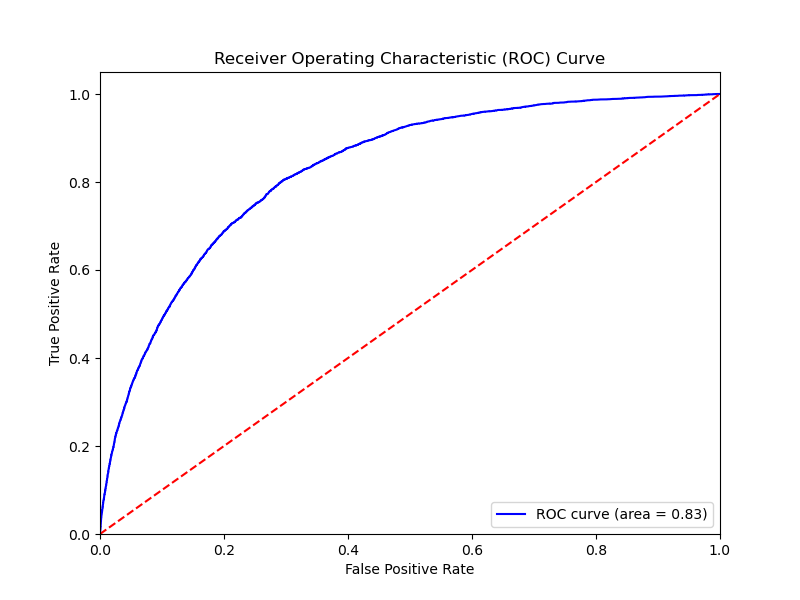
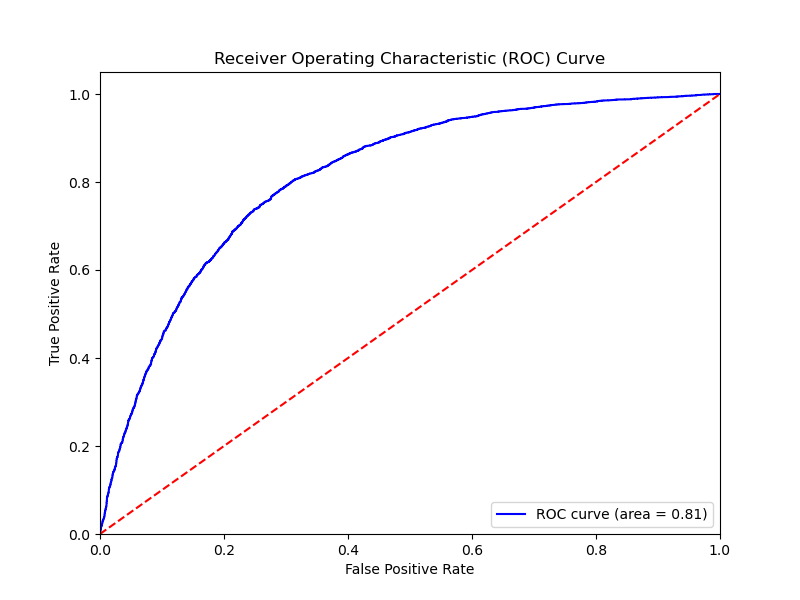
RF: Change Random to GridSearchCV, implemented same subset as in SVM

diff --git a/RF_Ilario/code/14-project.py b/RF_Ilario/code/14-project.py
@@ -1,6 +1,6 @@
 import pandas as pd
 import numpy as np
-from sklearn.model_selection import train_test_split, RandomizedSearchCV
+from sklearn.model_selection import train_test_split, GridSearchCV
 from sklearn.ensemble import RandomForestClassifier
 from sklearn.metrics import confusion_matrix, classification_report, accuracy_score, roc_curve, roc_auc_score
 from sklearn.preprocessing import StandardScaler
@@ -20,19 +20,29 @@ data_encoded = pd.get_dummies(data, drop_first=True)
 X = data_encoded.drop('HeartDisease_Yes', axis=1)  
 y = data_encoded['HeartDisease_Yes']
 
-# Splitting the dataset into training and testing sets
+# Splitting the dataset into training and testing sets and creating balanced subsets of the data
 X_train, X_test, y_train, y_test = train_test_split(X, y, test_size=0.2, random_state=42)
+
+positive_patients = list(np.random.choice(X_train[y_train == 1].index, 1000))
+negative_patients = list(np.random.choice(X_train[y_train == 0].index, 1000))
+X_train_sub = X_train.loc[positive_patients+negative_patients]
+y_train_sub = y_train.loc[positive_patients+negative_patients]
+
+positive_patients_test = list(X_test[y_test == 1].index)
+negative_patients_test = list(np.random.choice(X_test[y_test == 0].index, len(positive_patients_test)))
+X_test_sub = X_test.loc[positive_patients_test+negative_patients_test]
+y_test_sub = y_test.loc[positive_patients_test+negative_patients_test]
 
 # Standardizing numeric features (Random Forest does not require feature scaling but it won't hurt)
 numeric_features = X.select_dtypes(include=['float64', 'int']).columns.tolist()
 scaler = StandardScaler()
-X_train[numeric_features] = scaler.fit_transform(X_train[numeric_features])
-X_test[numeric_features] = scaler.transform(X_test[numeric_features])
+X_train_sub[numeric_features] = scaler.fit_transform(X_train_sub[numeric_features])
+X_test_sub[numeric_features] = scaler.transform(X_test_sub[numeric_features])
 
-# Hyperparameter tuning using RandomizedSearchCV
-param_distributions = {
+# Hyperparameter tuning using GridSearchCV
+param_grid = {
     'n_estimators': [50, 100],  # Reduced range
-    'max_features': ['auto', 'sqrt'],
+    'max_features': [None, 'sqrt'],
     'max_depth': [None, 10, 20],
     'min_samples_split': [2, 5],
     'min_samples_leaf': [1, 2],
@@ -42,31 +52,29 @@ param_distributions = {
 rf = RandomForestClassifier(random_state=42)
 
 # Use the threading backend
-random_search = RandomizedSearchCV(estimator=rf, param_distributions=param_distributions, 
-                                   n_iter=50, cv=2, n_jobs=-1, verbose=2, random_state=42, 
-                                   scoring='accuracy')
+grid_search = GridSearchCV(estimator=rf, param_grid=param_grid, cv=5,scoring='accuracy')
 
 with parallel_backend('threading'):
-    random_search.fit(X_train, y_train)
+    grid_search.fit(X_train_sub, y_train_sub)
 
-best_rf = random_search.best_estimator_
+best_rf = grid_search.best_estimator_
 
 # Making predictions
-y_pred = best_rf.predict(X_test)
-y_pred_prob = best_rf.predict_proba(X_test)[:, 1]  # Probabilities for the positive class
+y_pred = best_rf.predict(X_test_sub)
+y_pred_prob = best_rf.predict_proba(X_test_sub)[:, 1]  # Probabilities for the positive class
 
 # Evaluating the model
-accuracy = accuracy_score(y_test, y_pred)
-conf_matrix = confusion_matrix(y_test, y_pred)
-report = classification_report(y_test, y_pred)
-print("Best Parameters:", random_search.best_params_)
+accuracy = accuracy_score(y_test_sub, y_pred)
+conf_matrix = confusion_matrix(y_test_sub, y_pred)
+report = classification_report(y_test_sub, y_pred)
+print("Best Parameters:", grid_search.best_params_)
 print("Accuracy:", accuracy)
 print("Confusion Matrix:\n", conf_matrix)
 print("Classification Report:\n", report)
 
 # ROC Curve
-fpr, tpr, _ = roc_curve(y_test, y_pred_prob)
-roc_auc = roc_auc_score(y_test, y_pred_prob)
+fpr, tpr, _ = roc_curve(y_test_sub, y_pred_prob)
+roc_auc = roc_auc_score(y_test_sub, y_pred_prob)
 plt.figure(figsize=(8, 6))
 plt.plot(fpr, tpr, color='b', label=f'ROC curve (area = {roc_auc:.2f})')
 plt.plot([0, 1], [0, 1], color='r', linestyle='--')
@@ -82,7 +90,7 @@ plt.savefig("../output/Roc_Curve.png")
 feature_importance = best_rf.feature_importances_
 indices = np.argsort(feature_importance)[::-1]
 plt.figure(figsize=(12, 8))
-sns.barplot(x=X_train.columns[indices], y=feature_importance[indices])
+sns.barplot(x=X_train_sub.columns[indices], y=feature_importance[indices])
 plt.title('Feature Importance')
 plt.xlabel('Relative Importance')
 plt.ylabel('Features')
@@ -90,7 +98,7 @@ plt.tick_params(axis='x', rotation=90)
 plt.savefig("../output/Feauture_Importance.png")
 
 # Confusion Matrix
-conf_matrix = confusion_matrix(y_test, y_pred)
+conf_matrix = confusion_matrix(y_test_sub, y_pred)
 plt.figure(figsize=(8, 6))
 sns.heatmap(conf_matrix, annot=True, fmt="d", cmap='Blues', square=True)
 plt.xlabel('Predicted Label')

diff --git a/SVM_Leonard/code/svm.py b/SVM_Leonard/code/svm.py
@@ -24,6 +24,7 @@ def performance_evaluation(y_eval, X_eval, cla, name='Name'):
     aucs.append(roc_auc)
     print(classification_report(y_eval, y_pred))
     cm = confusion_matrix(y_eval, y_pred)
+    cm.to_csv('../.tables/confusion_matrix.csv')
     plt.figure(figsize=(8, 6))
     sns.heatmap(cm, annot=True, fmt="d", cmap='Blues')
     plt.title('Confusion Matrix')
@@ -96,10 +97,10 @@ mean_fpr = np.linspace(0, 1, 100)
 
 data_performance = pd.DataFrame(columns=['tp', 'fp', 'tn', 'fn', 'accuracy', 'precision', 'recall', 'f1', 'roc_auc'])
 
-X_train, X_test, y_train, y_test = train_test_split(X, y, test_size=0.2, random_state=0)
+X_train, X_test, y_train, y_test = train_test_split(X, y, test_size=0.2, random_state=42)
 
-pos_patients = list(np.random.choice(X_train[y_train == 1].index, 600))
-neg_patients = list(np.random.choice(X_train[y_train == 0].index, 600))
+pos_patients = list(np.random.choice(X_train[y_train == 1].index, 1000))
+neg_patients = list(np.random.choice(X_train[y_train == 0].index, 1000))
 X_train_sub = X_train.loc[pos_patients+neg_patients]
 y_train_sub = y_train.loc[pos_patients+neg_patients]
 
@@ -116,15 +117,15 @@ X_train_scaled[num_cols] = sc.fit_transform(X_train_scaled[num_cols])
 X_test_scaled[num_cols] = sc.transform(X_test_scaled[num_cols])
 
 SVM = svm.SVC(probability=True, kernel='linear')
-clf = GridSearchCV(SVM, parameters, cv=5)
+clf = GridSearchCV(SVM, parameters, cv=5, scoring='accuracy')
 clf.fit(X_train_scaled, y_train_sub)
 print(clf.best_estimator_.get_params())
 
 performance_evaluation(y_test_sub, X_test_scaled, clf, name='Test')
 
-result = permutation_importance(clf.best_estimator_, X_test_scaled, y_test_sub, n_repeats=2)
+perm_importance = permutation_importance(clf.best_estimator_, X_test_scaled, y_test_sub, n_repeats=2)
 
-importance_df = pd.DataFrame({'Permutation Importance': result.importances_mean}, index=X.columns)
+importance_df = pd.DataFrame({'Permutation Importance': perm_importance.importances_mean}, index=X.columns)
 
 print(data_performance)
 
